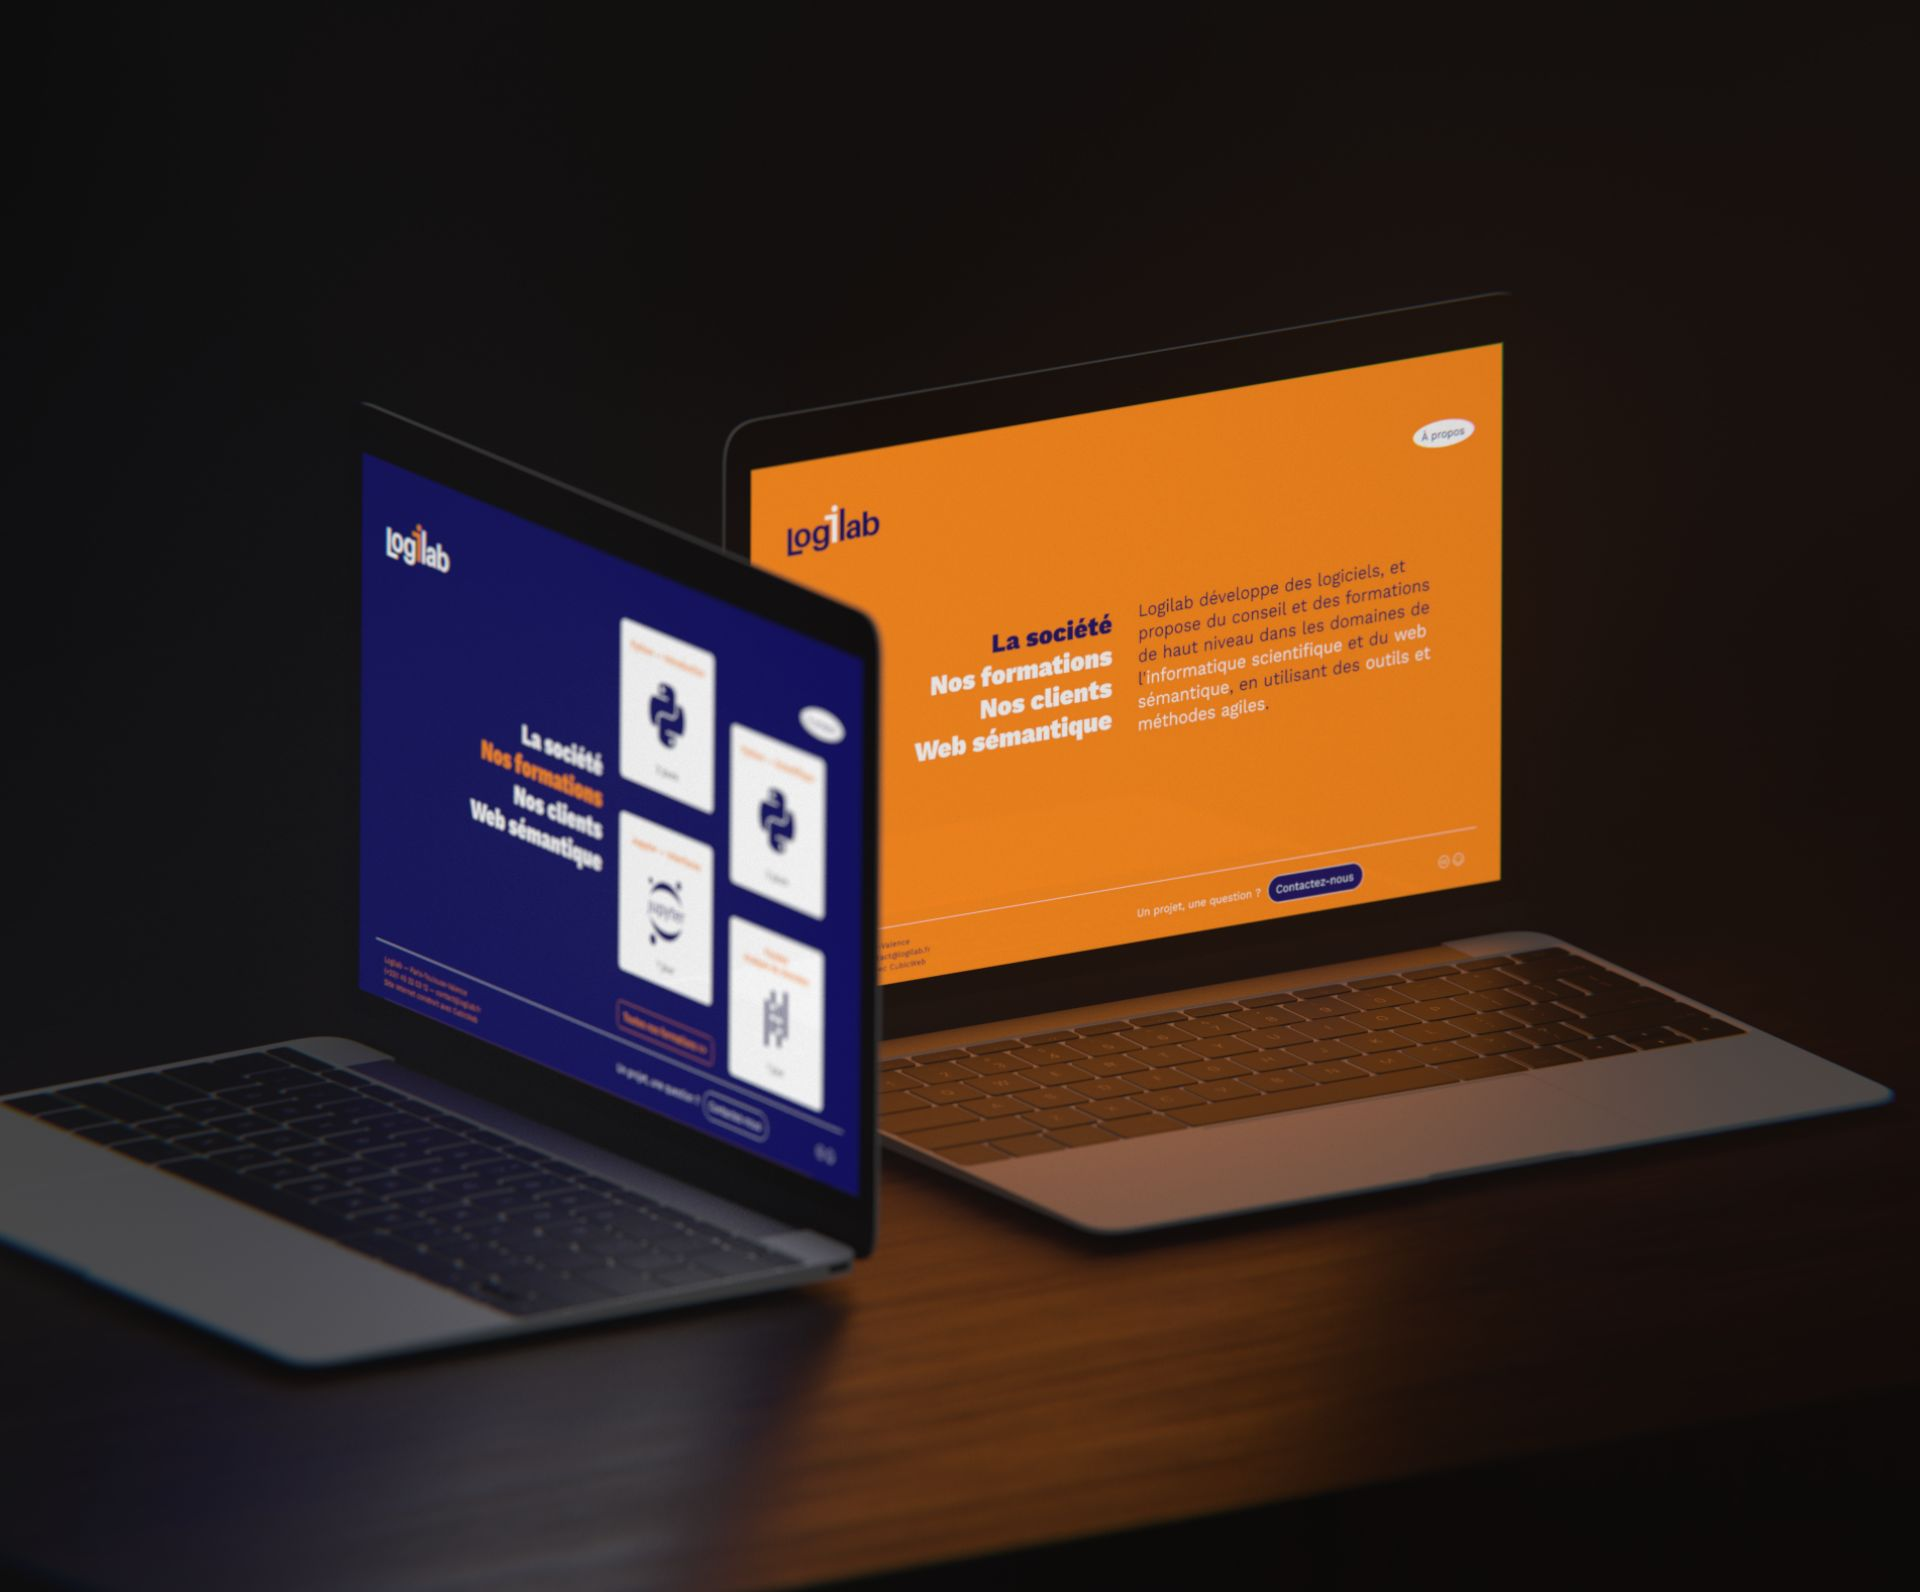
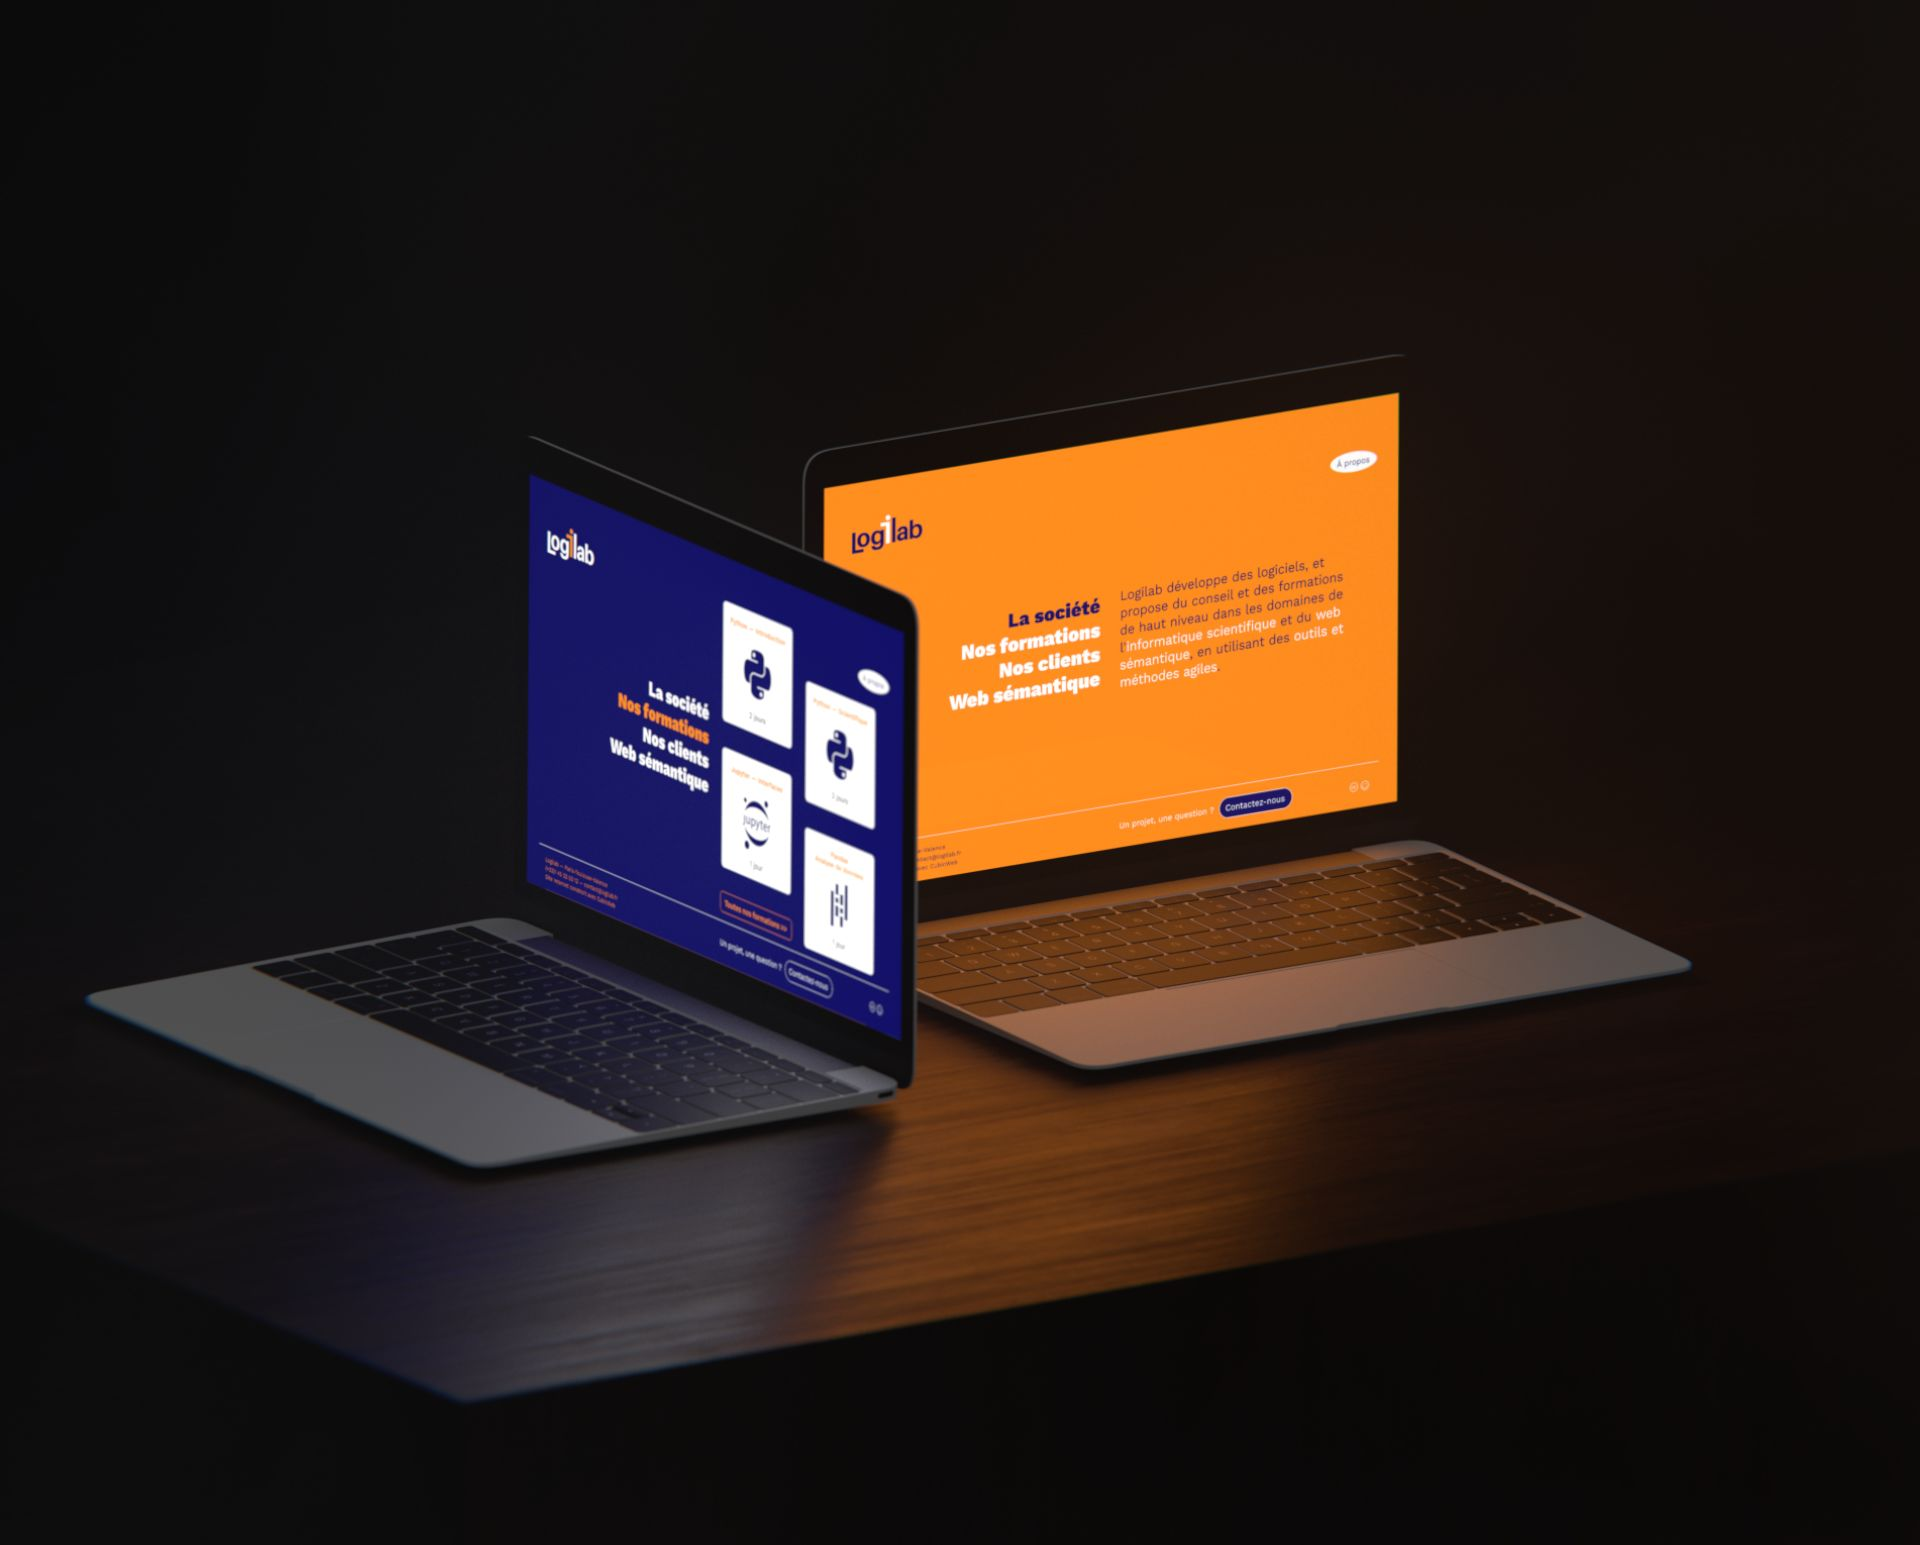
feat: update thumbnails mockups

diff --git a/src/App.jsx b/src/App.jsx
@@ -19,7 +19,7 @@ import { ProjectPage as DefaultProjectPage } from "./components/projects/Default
 import { ProjectPage as PageBowVosgien } from "./components/projects/PP_bowvosgien";
 import { ProjectPage as PageLogilabFr } from "./components/projects/PP_logilabfr";
 import { ProjectPage as PageSwep } from "./components/projects/PP_swep";
-import ThumbLeBowVosgien from "./assets/projects/le_bow_vosgien/mockup_le_bow_vosgien5.jpg";
+import ThumbLeBowVosgien from "./assets/projects/le_bow_vosgien/mockup_le_bow_vosgien.jpg";
 import ThumbLogilabFr from "./assets/projects/logilab_fr/mockup_logilab_fr.jpg";
 import ThumbSwep from "./assets/projects/swep/mockup_swep.jpg";
 import ThumbDefault1 from "./assets/mockup_macbook.png";
